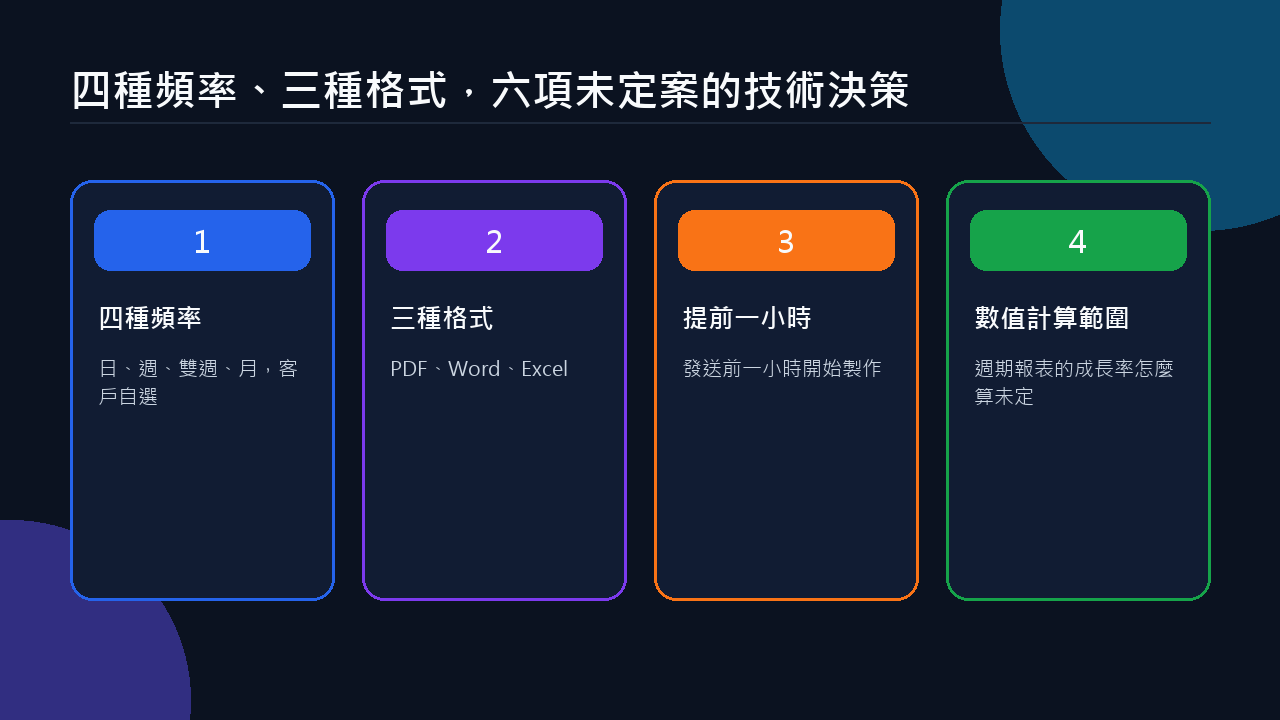
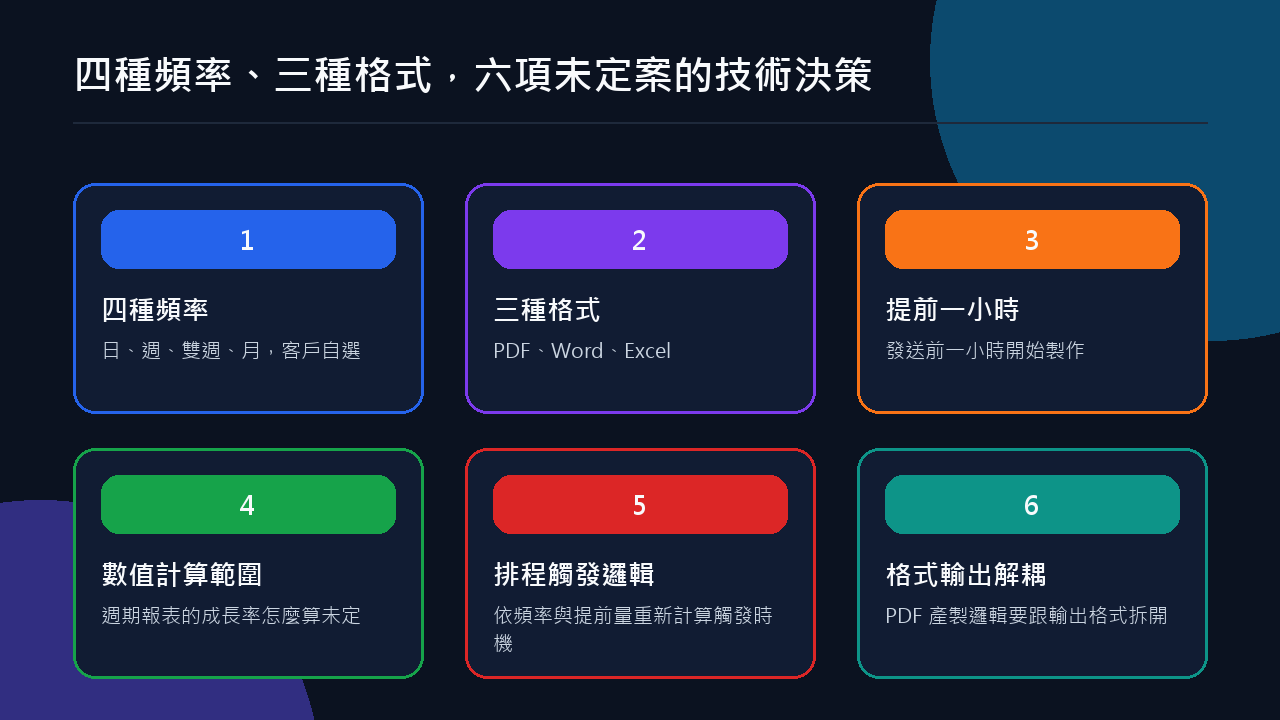
refactor(day17): 論稿

diff --git a/圖檔/Day17/generate_day17_images.py b/圖檔/Day17/generate_day17_images.py
@@ -1,0 +1,118 @@
+# NOTE: unlike most generate_dayNN_images.py scripts in this series, this file does
+# NOT (yet) cover every image in the folder. day17-01/02/03/05 have no known source
+# and were left as-is (raster only). This script currently only defines the function
+# that produces day17-04-new-requirements.png, rebuilt from scratch by sampling the
+# original PNG's colors/layout after the source design file could not be found, to
+# fix a mismatch between the image (4 boxes) and its own title/alt text (six items).
+# Add functions for the other four images here if their sources ever turn up, and
+# call them from main() the same way the other Day folders do.
+
+from pathlib import Path
+from PIL import Image, ImageDraw, ImageFont
+
+WIDTH, HEIGHT = 1280, 720
+ROOT = Path(__file__).parent
+FONT_REGULAR = Path(r"C:\Windows\Fonts\msjh.ttc")
+FONT_BOLD = Path(r"C:\Windows\Fonts\msjhbd.ttc")
+
+NAVY_BG = (11, 18, 32)
+BOX_FILL = (17, 28, 51)
+WHITE = (248, 250, 252)
+DESC = (203, 213, 225)
+UNDERLINE = (30, 41, 59)
+CIRCLE_TR = (12, 74, 110)
+CIRCLE_BL = (49, 46, 129)
+
+BLUE = (37, 99, 235)
+VIOLET = (124, 58, 237)
+ORANGE = (249, 115, 22)
+GREEN = (22, 163, 74)
+RED = (220, 38, 38)
+TEAL = (13, 148, 136)
+
+
+def font(size, bold=False):
+    return ImageFont.truetype(str(FONT_BOLD if bold else FONT_REGULAR), size)
+
+
+def rounded(draw, box, fill=None, outline=None, width=1, radius=20):
+    draw.rounded_rectangle(box, radius=radius, fill=fill, outline=outline, width=width)
+
+
+def text(draw, xy, value, size, fill, bold=False, anchor=None):
+    draw.text(xy, value, font=font(size, bold), fill=fill, anchor=anchor)
+
+
+def wrap(draw, value, size, bold, max_width):
+    f = font(size, bold)
+    lines = []
+    cur = ""
+    for ch in value:
+        trial = cur + ch
+        if draw.textlength(trial, font=f) > max_width and cur:
+            lines.append(cur)
+            cur = ch
+        else:
+            cur = trial
+    if cur:
+        lines.append(cur)
+    return lines
+
+
+def new_requirements():
+    im = Image.new("RGB", (WIDTH, HEIGHT), NAVY_BG)
+    d = ImageDraw.Draw(im)
+
+    d.ellipse((930, -220, 1490, 340), fill=CIRCLE_TR)
+    d.ellipse((-240, 500, 320, 1060), fill=CIRCLE_BL)
+
+    d.text((73, 46), "四種頻率、三種格式，六項未定案的技術決策", font=font(40, True), fill=WHITE)
+    d.line((73, 122, 1207, 122), fill=UNDERLINE, width=2)
+
+    items = [
+        ("1", BLUE, "四種頻率", "日、週、雙週、月，客戶自選"),
+        ("2", VIOLET, "三種格式", "PDF、Word、Excel"),
+        ("3", ORANGE, "提前一小時", "發送前一小時開始製作"),
+        ("4", GREEN, "數值計算範圍", "週期報表的成長率怎麼算未定"),
+        ("5", RED, "排程觸發邏輯", "依頻率與提前量重新計算觸發時機"),
+        ("6", TEAL, "格式輸出解耦", "PDF 產製邏輯要跟輸出格式拆開"),
+    ]
+
+    bw, bh = 350, 230
+    gap_x, gap_y = 42, 35
+    left = 73
+    row_ys = [183, 183 + bh + gap_y]
+    col_xs = [left, left + bw + gap_x, left + 2 * (bw + gap_x)]
+
+    badge_pad = 28
+    badge_h = 58
+
+    for idx, (num, color, heading, desc) in enumerate(items):
+        row = idx // 3
+        col = idx % 3
+        bx = col_xs[col]
+        by = row_ys[row]
+
+        rounded(d, (bx, by, bx + bw, by + bh), fill=BOX_FILL, outline=color, width=3, radius=22)
+
+        badge_x0 = bx + badge_pad
+        badge_x1 = bx + bw - badge_pad
+        badge_y0 = by + 27
+        badge_y1 = badge_y0 + badge_h
+        rounded(d, (badge_x0, badge_y0, badge_x1, badge_y1), fill=color, radius=18)
+        text(d, ((badge_x0 + badge_x1) / 2, (badge_y0 + badge_y1) / 2), num, 26, WHITE, True, anchor="mm")
+
+        heading_y = badge_y1 + 22
+        text(d, (bx + badge_pad, heading_y), heading, 27, WHITE, True)
+
+        desc_y = heading_y + 46
+        max_w = bw - 2 * badge_pad
+        for line in wrap(d, desc, 20, False, max_w):
+            text(d, (bx + badge_pad, desc_y), line, 20, DESC, False)
+            desc_y += 28
+
+    im.save(ROOT / "day17-04-new-requirements.png", format="PNG", optimize=True)
+
+
+if __name__ == "__main__":
+    new_requirements()

diff --git a/DAY17-遺留程式碼的原罪.md b/DAY17-遺留程式碼的原罪.md
@@ -2,7 +2,7 @@
 
 ![Day 17 封面：接手兩年前的決定，不是接手一張白紙](https://raw.githubusercontent.com/a26703248/ithome-2026-codex/main/%E5%9C%96%E6%AA%94/Day17/day17-01-cover.png)
 
-Day 16 我還在替一個乾淨的新專案整理分支、commit 與 PR 草稿。這週接手的「日報服務」完全是另一回事：已經上線兩年，客戶訂閱後每天早上八點收到一封可攜式文件格式（Portable Document Format，PDF）報表信，中間換過不只一位維護者。我打開專案的第一個動作不是寫程式，是先搞清楚「現在到底長什麼樣子」——結果越看越心虛。
+Day 16 我還在替一個乾淨的新專案整理分支、commit 與 PR 草稿。這週接手的「日報服務」完全是另一回事：已經上線兩年，客戶訂閱後每天早上八點收到一封 PDF 報表信，中間換過不只一位維護者。我打開專案的第一個動作不是寫程式，是先搞清楚「現在到底長什麼樣子」——結果越看越心虛。
 
 ## 第一印象：能動，不代表看得懂
 
